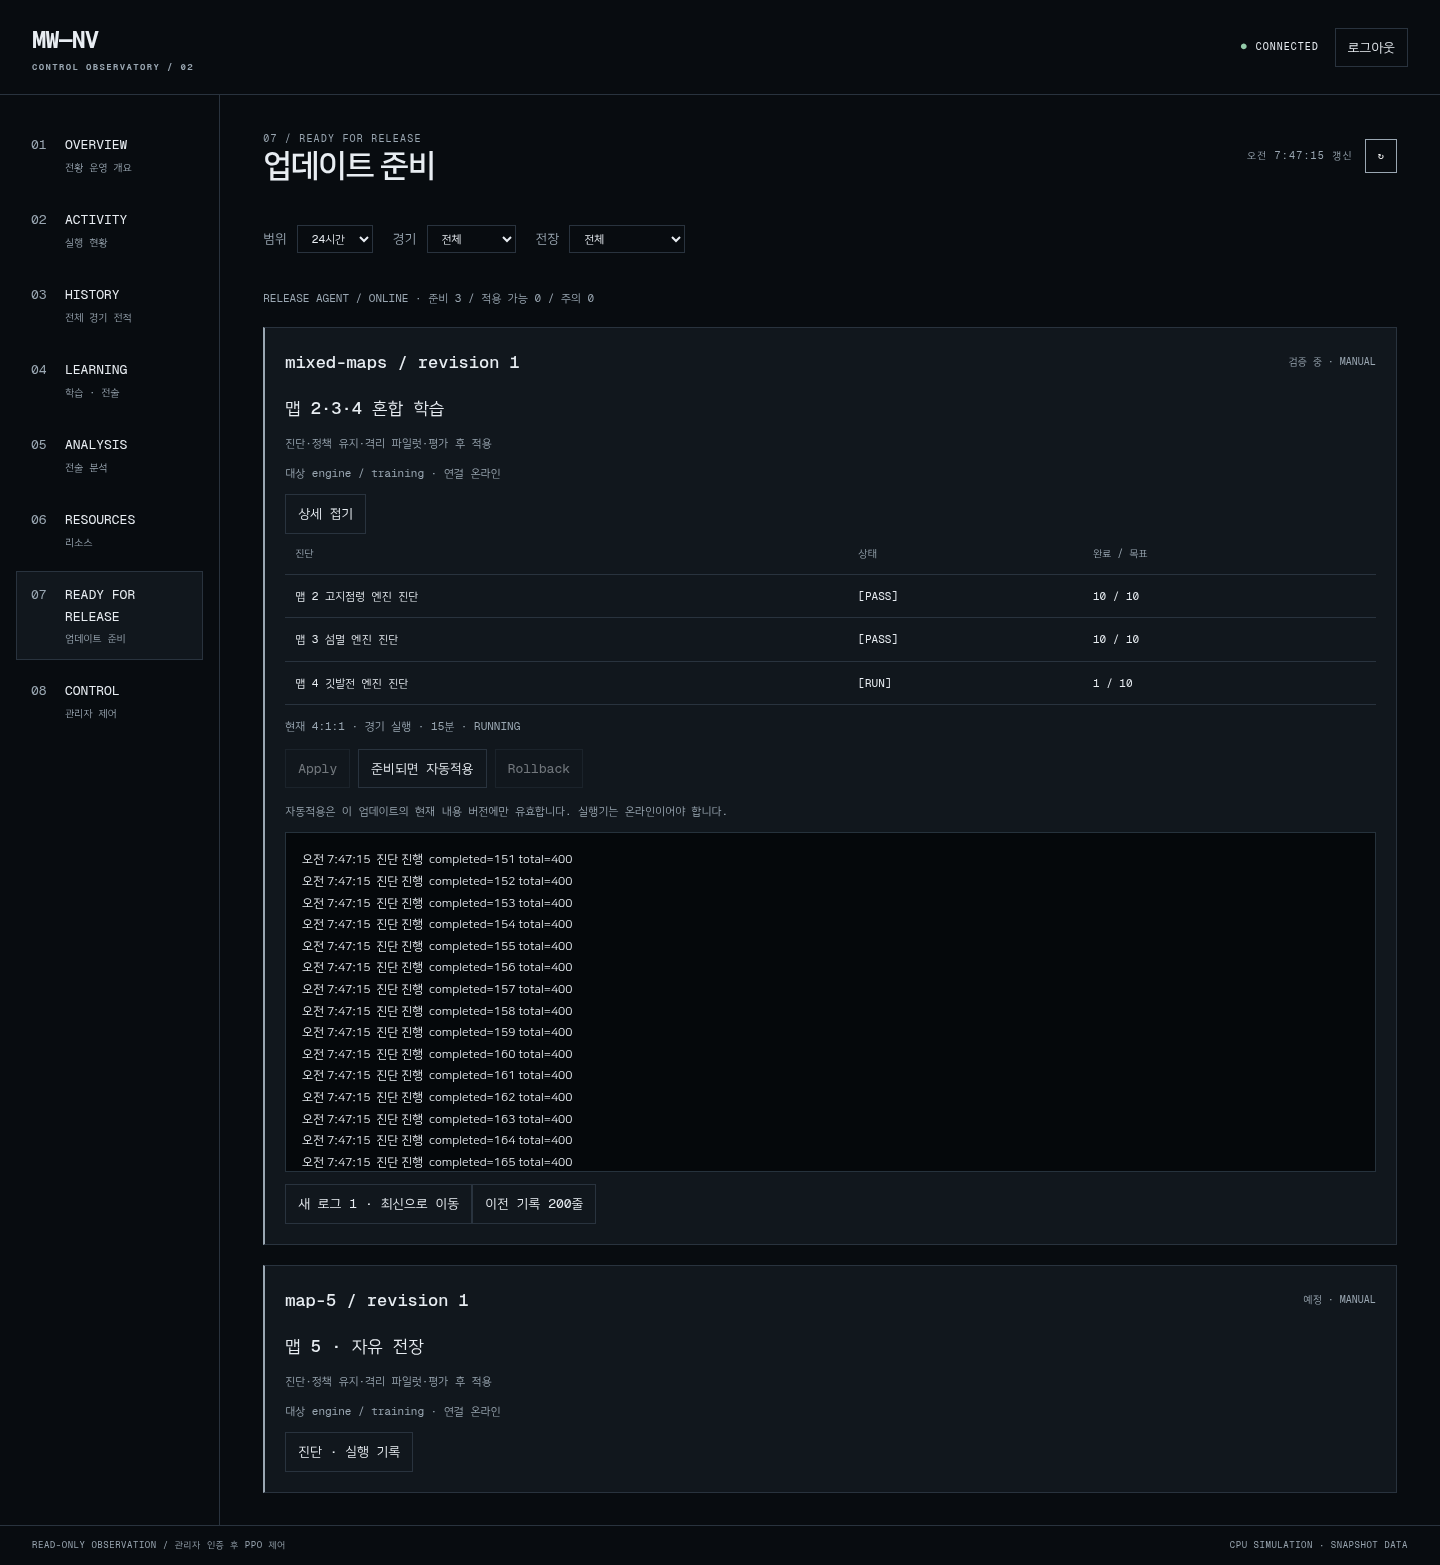
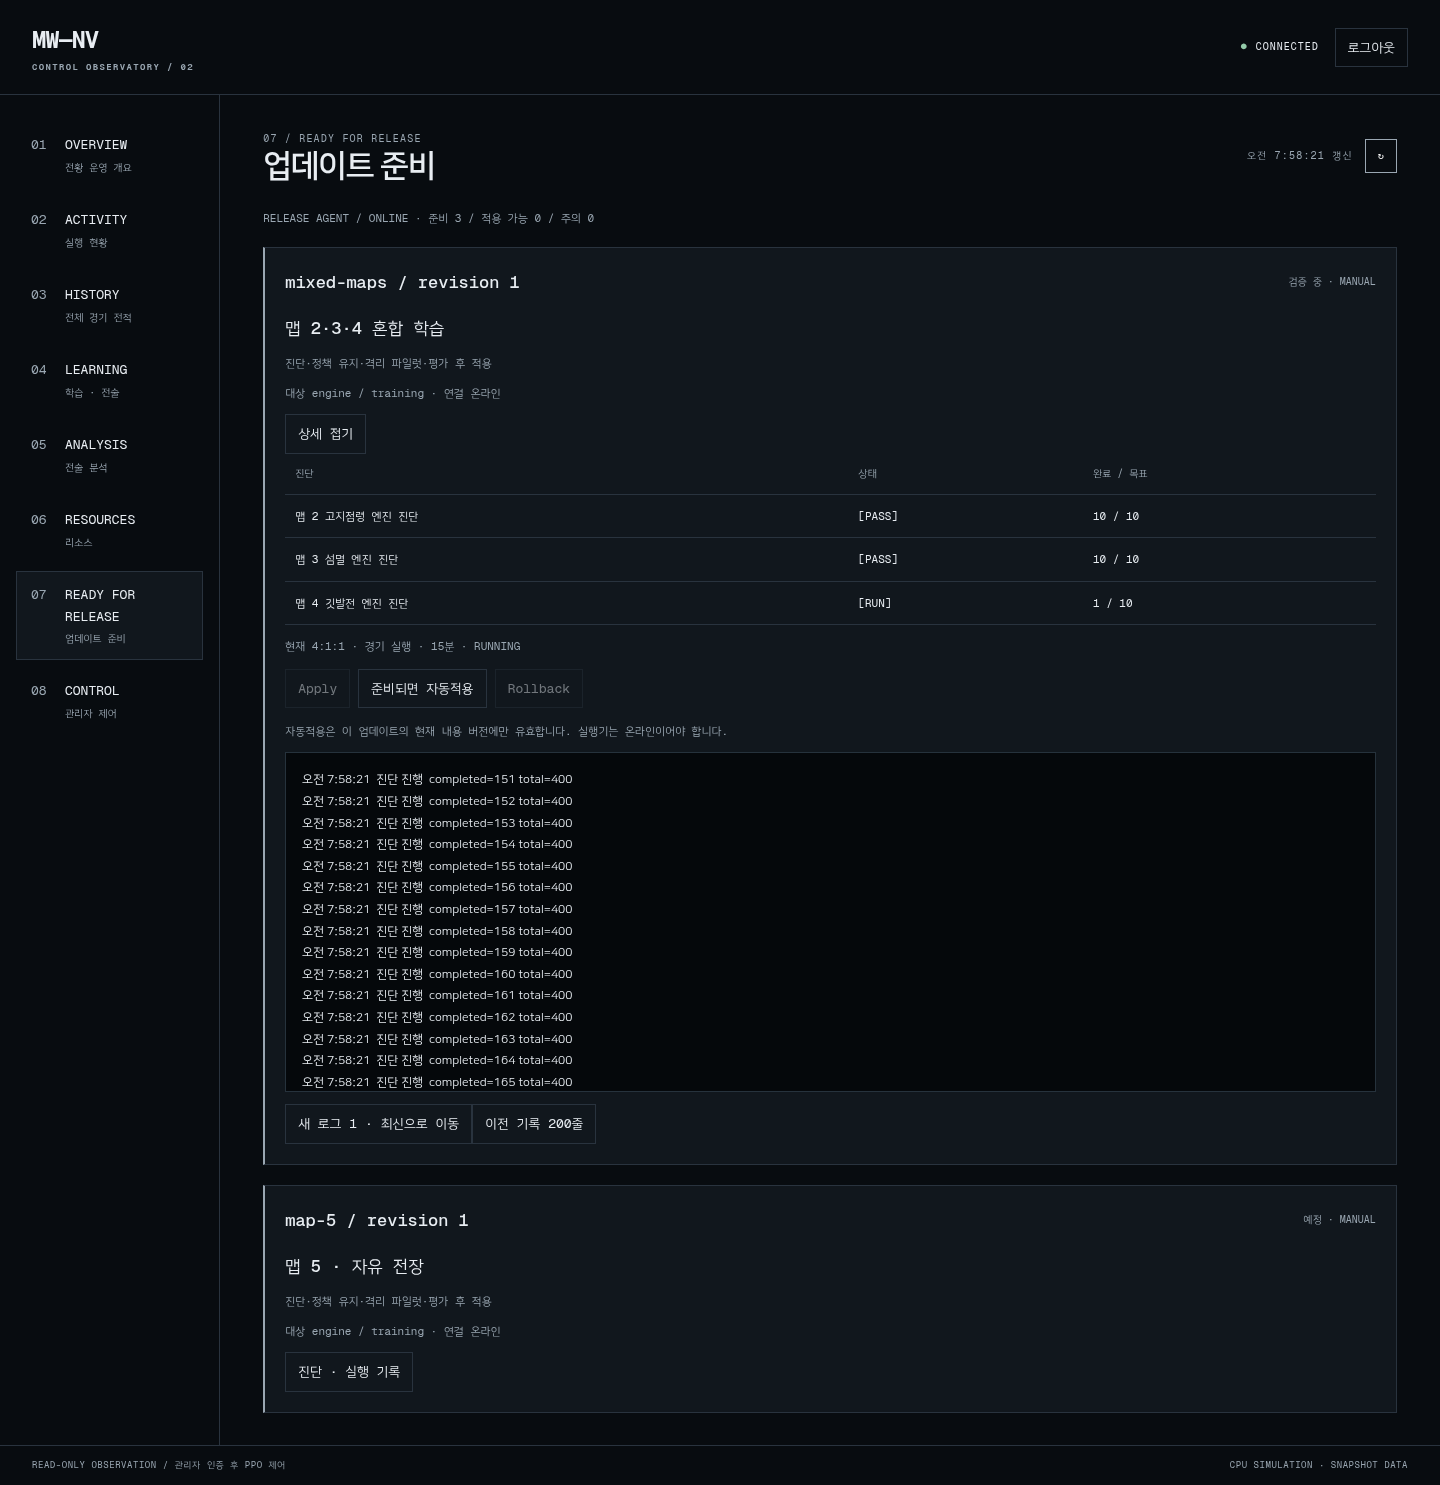
fix(releases): verify dependencies and executor liveness before applying

diff --git a/v1.0.0/viewer/src/dashboard/releases.js b/v1.0.0/viewer/src/dashboard/releases.js
@@ -11,6 +11,7 @@ export async function releases(content,session,signal){
  const open=el('button',current===item.id?'상세 접기':'진단 · 실행 기록');open.onclick=()=>{current=current===item.id?null:item.id;location.hash='releases?id='+(current??'');};p.append(open);content.append(p);
  if(current!==item.id&&new URLSearchParams(location.hash.split('?')[1]).get('id')!==item.id)continue;current=item.id;
  p.append(table(['진단','상태','완료 / 목표'],(item.steps??[]).map(s=>[s.title,`[${s.state}]`,s.total==null?(s.completed??'—'):`${s.completed??0} / ${s.total}`])));
+ if(item.validation_connection==='offline')p.append(note('VALIDATION WORKER OFFLINE / 마지막 완료 진단은 유지합니다.'));
  if(item.current){const c=item.current;p.append(note(`현재 ${c.case??'—'} · ${c.phase==='replay'?'리플레이 해시 검증':c.phase==='resource_wait'?'CPU·메모리 예산 대기':c.phase==='pilot_evaluation'?'격리 파일럿 평가':c.phase==='pilot'?'격리 파일럿':'경기 실행'} · ${Math.floor((c.sim_seconds??0)/60)}분${c.journal_total?` · 기록 ${c.journal_completed??0}/${c.journal_total}`:''} · ${c.state??'—'}`));}
  if(item.attempts?.length)p.append(table(['적용 이력','동작','실제 단계'],item.attempts.map(a=>[new Date(a.updated*1000).toLocaleString('ko-KR'),a.action+' / '+(a.digest?.slice(0,8)??'—'),a.phase])));
  if(item.blockers?.length)p.append(note('BLOCKED / '+item.blockers.join(' · ')));

diff --git a/v1.0.0/viewer/src/dashboard/style.css b/v1.0.0/viewer/src/dashboard/style.css
@@ -3,3 +3,4 @@
 
 #dash-menu{display:none}@media(max-width:640px){#dash-menu{display:inline-block}#dash-nav{display:none}#dash-nav.mobile-open{display:flex}}
 .release-card{border-left:2px solid #9aa7b2}.release-card h2{font-size:17px}.release-actions{display:flex;gap:8px;flex-wrap:wrap;margin:14px 0}.release-terminal{background:#05080b;color:#e8edf2;border:1px solid #26323c;padding:16px;max-height:340px;overflow:auto;font:12px/1.8 'Geist Mono','NanumSquare',monospace;white-space:pre-wrap;overflow-wrap:anywhere}.release-terminal:focus{outline:1px solid #d6e3f8}
+#dash-filters[hidden]{display:none}

diff --git a/v1.0.0/server/release_observations.py b/v1.0.0/server/release_observations.py
@@ -18,23 +18,29 @@ def read(path):
 def step(id,title,state='WAIT',completed=None,total=None):return dict(id=id,title=title,state=state,completed=completed,total=total,required=True)
 
 
+def worker_alive(info,module):
+    try:
+        pid=info['pid']
+        return process_start(pid)==info.get('start') and module.encode() in Path(f'/proc/{pid}/cmdline').read_bytes().split(b'\0')
+    except (OSError,KeyError):return False
+
 def mixed(spec,paths,content_digest):
     root=Path(paths['validation']);pilot=Path(paths['pilot']);status=read(root/'rollout-status.json');audit=read(root/'engine-audit.json');steps=[]
-    rows=audit.get('results',[])
+    rows=audit.get('results',[]);validation_alive=worker_alive(read(root/'validation-agent.json'),'learning.mission_pipeline')
     for mode,name in [('2','고지점령'),('3','섬멸'),('4','깃발전')]:
         cases=[r for r in rows if r.get('scenario_id')==mode];passed=sum(r.get('complete',False) and r.get('replay_hash_verified',False) for r in cases)
         failed=any(r.get('complete') and r.get('replay_hash_verified') is False for r in cases)
-        state='FAIL' if failed else 'PASS' if passed==10 else 'RUN' if status.get('stage')=='engine_audit' and status.get('status')=='running' else 'WAIT'
+        state='FAIL' if failed else 'PASS' if passed==10 else 'RUN' if status.get('stage')=='engine_audit' and status.get('status')=='running' and validation_alive else 'WAIT'
         steps.append(step('engine-'+mode,'맵 '+mode+' '+name+' 엔진 진단',state,passed,10))
     retention=read(root/'migration-retention.json');retention_total=400 if status.get('stage')=='migration_retention_confirmation' or len({r['seed'] for r in retention.get('results',[])})>5 else 80
     retention_done=retention.get('complete') and len(retention.get('results',[]))==retention_total
-    steps.append(step('retention','기존 맵 2 정책 유지 평가','PASS' if retention_done and retention.get('retained') else 'FAIL' if retention_done else 'RUN' if status.get('stage','').startswith('migration_retention') and status.get('status')=='running' else 'WAIT',len(retention.get('results',[])),retention_total))
-    state=read(pilot/'state.json');games=state.get('completed_games',0)
-    steps.append(step('pilot','격리 혼합 학습 파일럿','PASS' if games>=192 else 'RUN' if state.get('run') else 'WAIT',min(192,games),192))
+    steps.append(step('retention','기존 맵 2 정책 유지 평가','PASS' if retention_done and retention.get('retained') else 'FAIL' if retention_done else 'RUN' if status.get('stage','').startswith('migration_retention') and status.get('status')=='running' and validation_alive else 'WAIT',len(retention.get('results',[])),retention_total))
+    state=read(pilot/'state.json');games=state.get('completed_games',0);pilot_alive=worker_alive(read(pilot/'child.json'),'learning.accelerated_league')
+    steps.append(step('pilot','격리 혼합 학습 파일럿','PASS' if games>=192 else 'RUN' if pilot_alive else 'WAIT',min(192,games),192))
     latest=read(pilot/'evaluations'/f'games-{games:08d}'/'report.json');initial=read(pilot/'evaluations/games-00000000/report.json');verdict=state.get('pilot_report',{});confirmation=read(pilot/'confirmation-report.json')
     needs_confirmation=any(v.get('mean',0)>0 for v in verdict.get('modes',{}).values())
     fixed_ready=games>=192 and initial.get('complete') and latest.get('complete') and verdict and not verdict.get('pause',True) and (not needs_confirmation or confirmation and not confirmation.get('pause',True))
-    steps.append(step('evaluation','모드별 필수 고정·확인 평가','PASS' if fixed_ready else 'FAIL' if verdict.get('pause') else 'RUN' if latest and not latest.get('complete') else 'WAIT',len(latest.get('results',[])),240))
+    steps.append(step('evaluation','모드별 필수 고정·확인 평가','PASS' if fixed_ready else 'FAIL' if verdict.get('pause') else 'RUN' if pilot_alive and latest and not latest.get('complete') else 'WAIT',len(latest.get('results',[])),240))
     current=read(pilot/'current.json');folder=pilot/current.get('path','__missing__');verified=False
     if state and current:
         import hashlib
@@ -46,13 +52,21 @@ def mixed(spec,paths,content_digest):
     source_checks=spec['artifact'].get('policy_sources',{})
     assets_valid=bool(source_checks) and all((root/name).is_file() and hashlib.sha256((root/name).read_bytes()).hexdigest()==sha for name,sha in source_checks.items())
     valid=valid and assets_valid
+    runtime_valid=False;runtime_changed=False
+    if paths.get('runtime') and (Path(paths['runtime'])/'artifact-files.json').exists():
+        try:
+            from .release_artifacts import verify
+            runtime_valid=verify(paths['runtime'],expected)
+        except (OSError,ValueError,KeyError):runtime_changed=True
+    valid=valid and runtime_valid
     steps.append(step('build','코드·지형·필수 결함 검증','PASS' if valid else 'WAIT'))
     blockers=[]
+    if runtime_changed:blockers.append('RUNTIME_ARTIFACT_CHANGED')
     if source_checks and not assets_valid:blockers.append('SOURCE_ARTIFACT_CHANGED')
     if status.get('status')=='paused':blockers.append('VALIDATION_PAUSED')
     if state.get('pause_reason'):blockers.append('PILOT_PAUSED')
     current_case=read(root/'audit-current.json');activity=None
-    if current_case.get('state')!='RUNNING':current_case={}
+    if current_case.get('state')!='RUNNING' or not validation_alive:current_case={}
     if not current_case:
         for p in Path(paths.get('activity','data/activity')).glob('*.json'):
             item=read(p)
@@ -64,7 +78,7 @@ def mixed(spec,paths,content_digest):
     pilot_status=read(pilot/'pilot-status.json')
     if pilot_status.get('status')=='WAITING_RESOURCES' or (pilot/'resource-pause.json').exists():current_case=dict(phase='resource_wait',state='WAITING_RESOURCES')
     current_case={k:v for k,v in current_case.items() if k in ('phase','case','scenario_id','seed','swapped','sim_seconds','time_limit_seconds','state','journal_completed','journal_total','completed_games','updated_at')}
-    return dict(steps=steps,blockers=blockers,current=current_case or None,evidence_digest=content_digest if valid else None,connection='online',invalidated=bool(source_checks and not assets_valid))
+    return dict(steps=steps,blockers=blockers,current=current_case or None,evidence_digest=content_digest if valid else None,connection='online',validation_connection='idle' if status.get('status')=='validated' else 'online' if validation_alive else 'offline',invalidated=bool(runtime_changed or source_checks and not assets_valid))
 
 
 def pages(spec,paths,content_digest):

diff --git a/v1.0.0/server/release_handlers.py b/v1.0.0/server/release_handlers.py
@@ -13,8 +13,13 @@ BASE=Path(os.environ.get('MW_NV_INSTALLATION_BASE',BASE)).resolve()
 def owned(pid,module,root=None,start=None):
     try:
         args=Path(f'/proc/{pid}/cmdline').read_bytes().split(b'\0')
-        return module.encode() in args and (root is None or str(Path(root).resolve()).encode() in args or str(root).encode() in args) and (start is None or process_start(pid)==start)
-    except (OSError,ValueError):return False
+        same_root=root is None
+        if root is not None and b'--root' in args:
+            value=Path(args[args.index(b'--root')+1].decode())
+            actual=value if value.is_absolute() else Path(f'/proc/{pid}/cwd').resolve()/value
+            same_root=actual.resolve()==Path(root).resolve()
+        return module.encode() in args and same_root and (start is None or process_start(pid)==start)
+    except (OSError,ValueError,IndexError,UnicodeError):return False
 
 
 def alive_run(root):
@@ -138,7 +143,8 @@ class MixedTraining:
         # Verify the restored coordinator registered its real operational root.
         deadline=time.monotonic()+1800
         while time.monotonic()<deadline:
-            if alive_run(root) and read(BASE/'data/control/run.json').get('root')==str(root.resolve()):return
+            run=read(BASE/'data/control/run.json');status=read(root/'training-status.json')
+            if alive_run(root) and run.get('root')==str(root.resolve()) and status.get('run_id')==run.get('run_id') and status.get('status')=='running' and status.get('phase') in ('learning','paused','evaluation'):return
             time.sleep(5)
         raise TimeoutError('rollback health not confirmed')
 

diff --git a/v1.0.0/tests/test_release_apply.py b/v1.0.0/tests/test_release_apply.py
@@ -64,3 +64,19 @@ def test_failed_rollback_keeps_exclusive_recovery_state(tmp_path,monkeypatch):
     module.execute(r,{'mixed_training':Handler})
     assert r.pending()['phase']=='RECOVERY_REQUIRED'
     with pytest.raises(ValueError):r.command(cmd(d))
+
+
+def test_dependency_rollback_after_request_prevents_execution(tmp_path,monkeypatch):
+    r,d=prepared(tmp_path,monkeypatch)
+    # A dependency can be restored after the request and before worker execution.
+    candidate=spec();candidate['revision']=2;candidate['dependencies']=[dict(id='base',revision=1)]
+    base=dict(spec(),id='base');r.register(base)
+    with r.db() as c:c.execute("UPDATE releases SET state=? WHERE id='base'",(json.dumps(dict(status='APPLIED')),))
+    d=r.register(candidate);r.observe('test',dict(evidence_digest=d,steps=[dict(id='engine',state='PASS')],blockers=[]))
+    (tmp_path/'definitions/test.json').write_text(json.dumps(dict(spec=candidate,paths={})))
+    r.command(cmd(d))
+    with r.db() as c:c.execute("UPDATE releases SET state=? WHERE id='base'",(json.dumps(dict(status='ROLLED_BACK')),))
+    class Handler:
+        def __init__(self,*_):pass
+        def validate(self):raise AssertionError('dependent release must not execute')
+    module.execute(r,{'mixed_training':Handler});assert r.get('test')['status']=='FAILED'

diff --git a/v1.0.0/server/release_apply.py b/v1.0.0/server/release_apply.py
@@ -25,6 +25,8 @@ def execute(registry,handlers):
         if attempt['phase'] in ('RECOVERY_REQUIRED','ROLLING_BACK'):
             handler.rollback(journal(),lambda **v:save('ROLLING_BACK',**v));save('ROLLED_BACK');return
         if attempt['phase']=='QUEUED':
+            with registry.db() as c:
+                if not all(registry._dependency(c,d) for d in definition['spec']['dependencies']):raise ValueError('release dependencies changed')
             evidence=observe(definition['spec'],definition['paths'],item['content_digest'])
             if evidence.get('evidence_digest')!=item['content_digest'] or evidence.get('blockers') or not set(definition['spec']['validation_plan']).issubset({s['id'] for s in evidence['steps']}) or not all(s['state']=='PASS' for s in evidence['steps'] if s.get('required',True) or s['id'] in definition['spec']['validation_plan']):raise ValueError('required evidence changed')
             handler.validate();save('SAVING')

diff --git a/v1.0.0/learning/mission_pipeline.py b/v1.0.0/learning/mission_pipeline.py
@@ -10,6 +10,9 @@ def prepare(root,legacy):
     root=Path(root);root.mkdir(parents=True,exist_ok=True)
     with (root/'prepare.lock').open('a') as lock:
         fcntl.flock(lock,fcntl.LOCK_EX|fcntl.LOCK_NB)
+        import os
+        from server.telemetry import process_start
+        atomic_json(root/'validation-agent.json',dict(pid=os.getpid(),start=process_start(os.getpid())))
         certificate=json.loads((root/'validation.json').read_text())
         if certificate.get('code_sha256')!=code_fingerprint() or not certificate.get('static_checks_passed') or not certificate.get('geometry_complete'):raise ValueError('current static/geometry certificate required')
         archive=json.loads((root/'source-archive.json').read_text())
